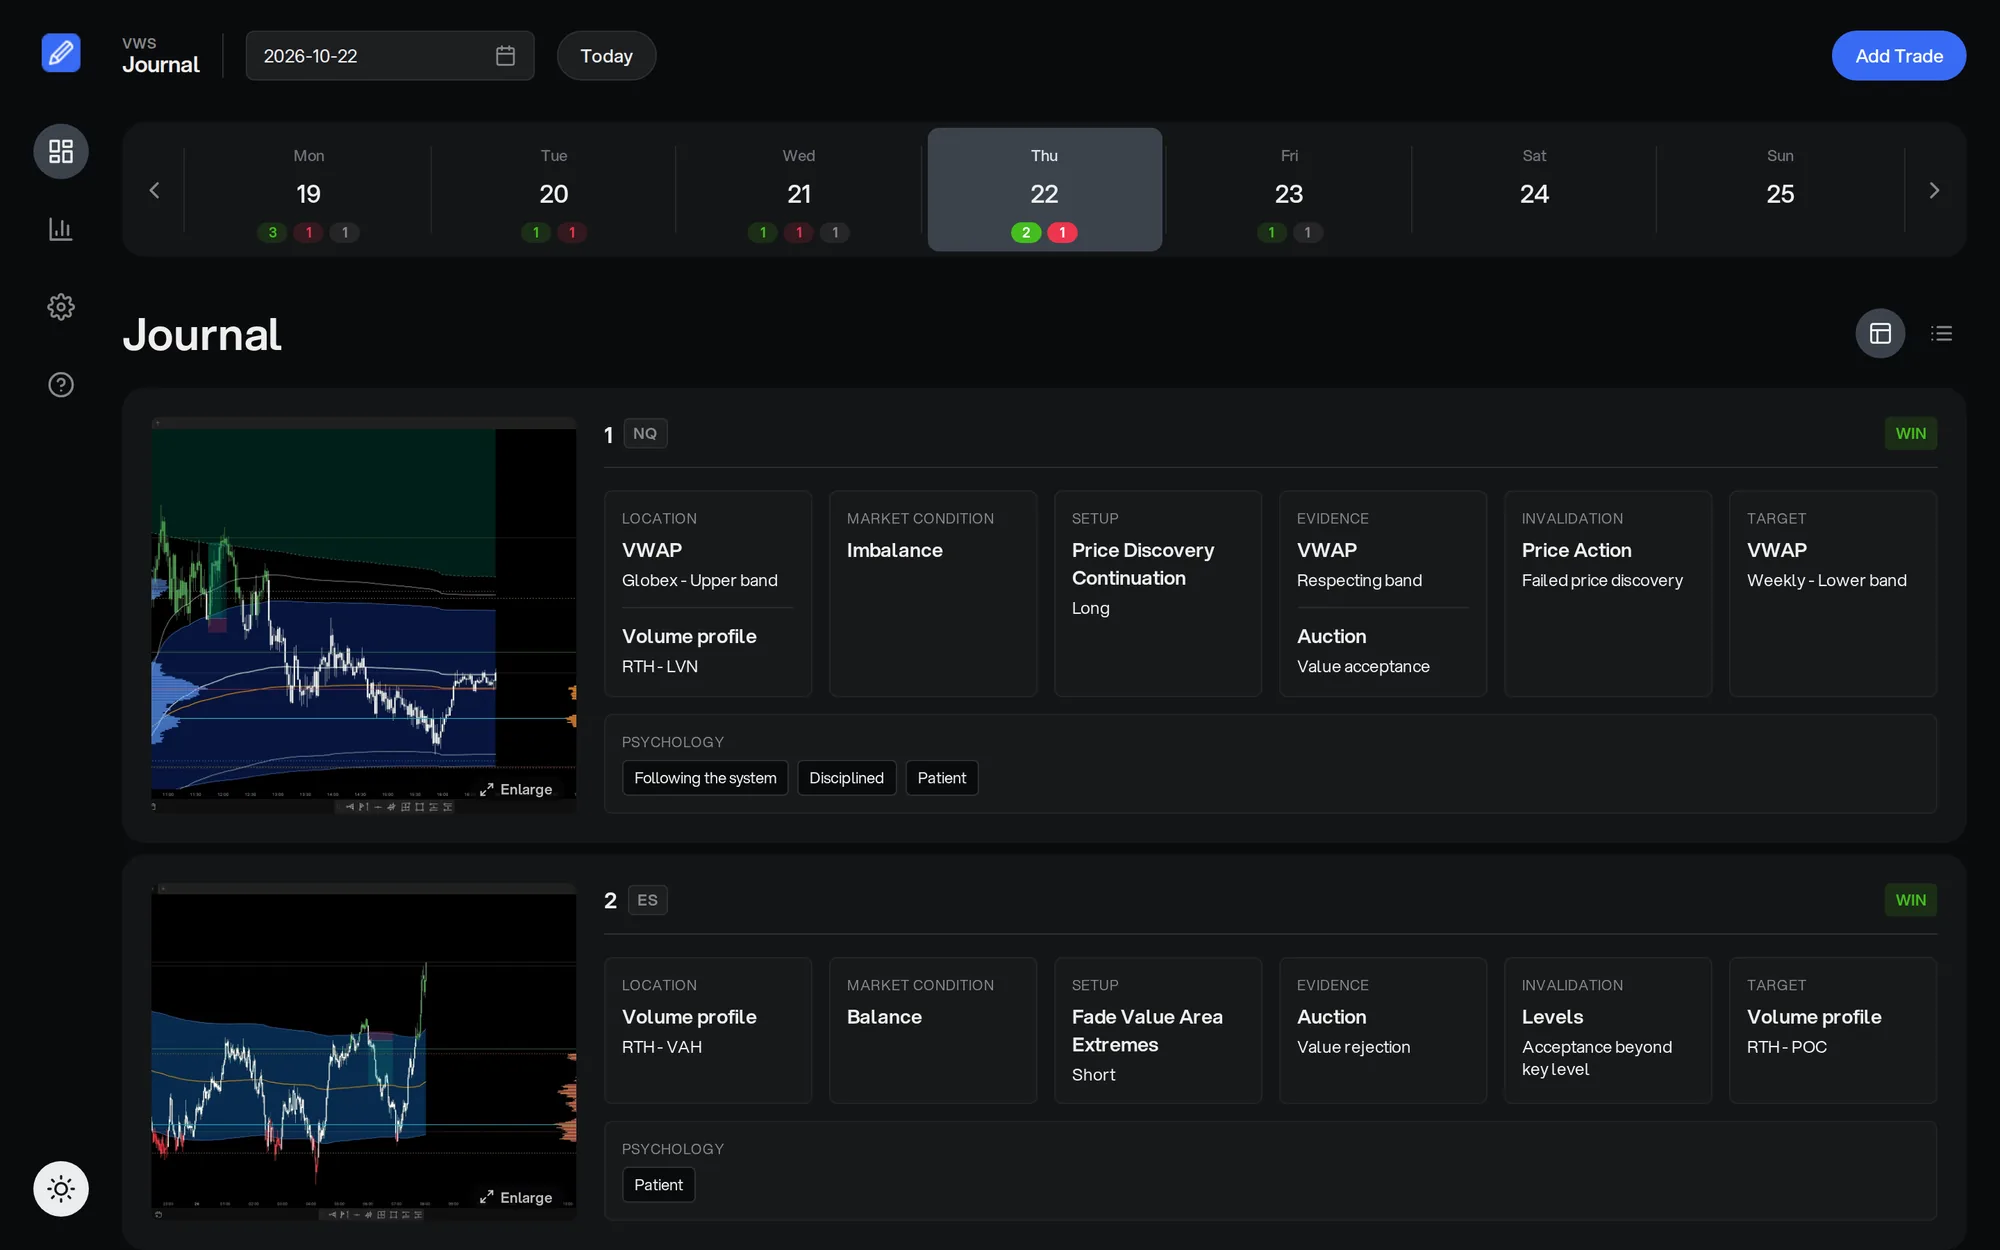
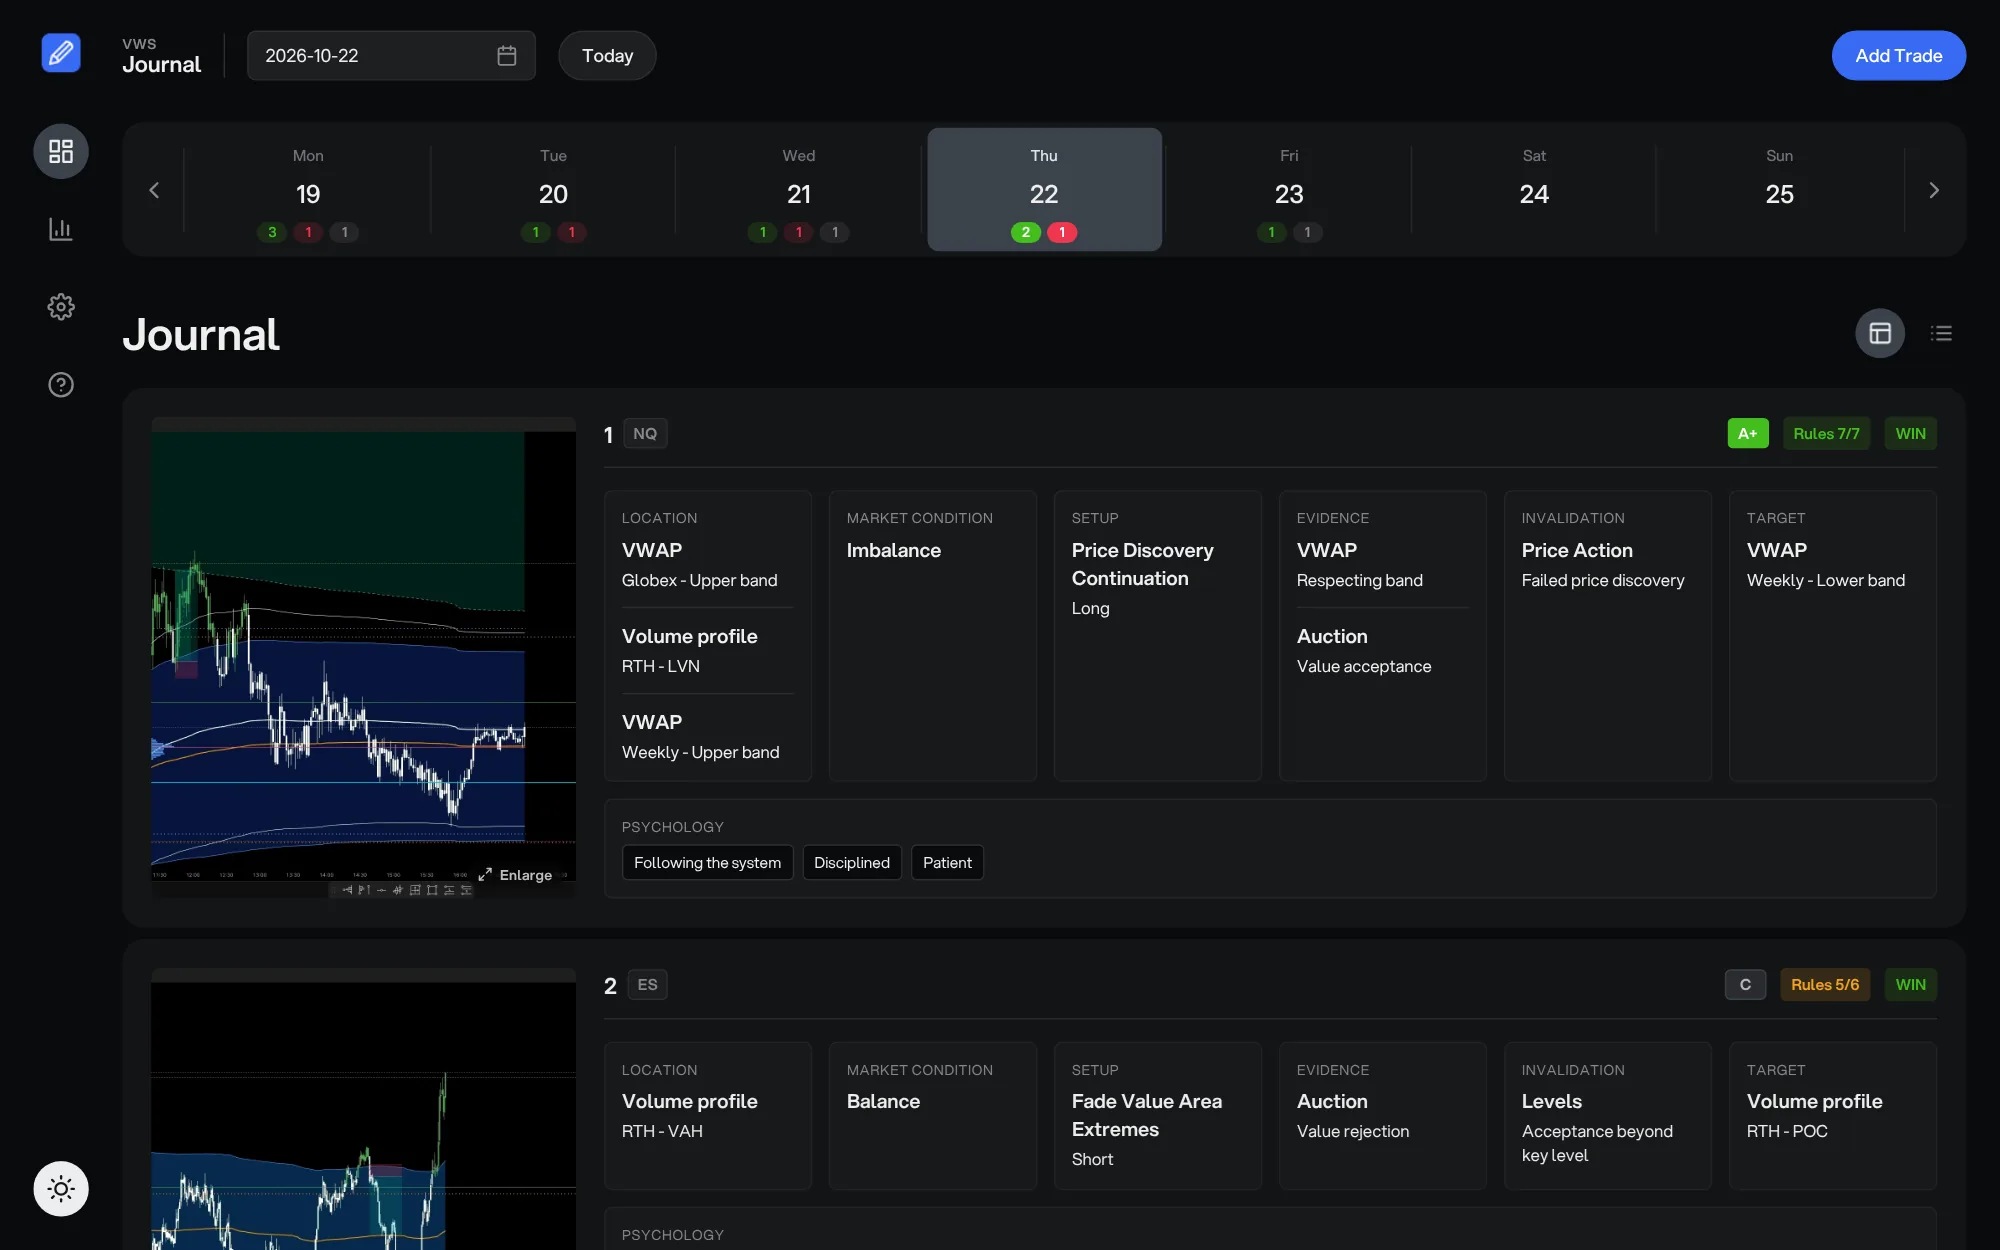
Add files via upload

diff --git a/landing.css b/landing.css
@@ -247,16 +247,10 @@ details[open] > summary .lp-chev { transform: rotate(180deg); }
         mask-image: linear-gradient(180deg, #000 0%, #000 55%, rgba(0, 0, 0, 0.35) 85%, transparent 100%); }
     .lp-context { padding-top: 56px; }
     .lp-bento { grid-template-columns: repeat(2, minmax(0, 1fr)); grid-auto-flow: row dense; gap: 16px; }
-    .lp-span-2, .lp-tile-private { grid-column: 1 / -1; }
+    .lp-span-2 { grid-column: 1 / -1; }
     .lp-flow { flex-direction: column; gap: 10px; }
     .lp-flow-join { display: none; }
     .lp-tile { min-height: 400px; padding: 28px; }
-    .lp-tile-private { min-height: 0; display: grid; grid-template-columns: minmax(0, 1fr) minmax(0, 1fr); column-gap: 32px; row-gap: 10px; }
-    .lp-tile-private { grid-template-rows: auto auto 1fr; }
-    .lp-tile-private .lp-tag { grid-column: 1; grid-row: 1; }
-    .lp-tile-private h3 { grid-column: 1; grid-row: 2; }
-    .lp-tile-private > p { grid-column: 1; grid-row: 3; }
-    .lp-tile-private .lp-files { grid-column: 2; grid-row: 1 / span 3; margin-top: 0; padding-top: 0; align-self: center; }
     .lp-v-chart { height: 320px; margin-right: -40px; }
     .lp-capture-toast { right: 56px; }
     .lp-v-settings { margin-right: -110px; }

diff --git a/index.html b/index.html
@@ -96,7 +96,7 @@
 
             <div class="lp-hero-shot lp-wrap">
                 <div class="lp-hero-frame">
-<img src="landing/dashboard.webp" width="2000" height="1250" alt="The journal dashboard: a weekly calendar with wins and losses per day, and trade cards with chart, location, setup, evidence and psychology" fetchpriority="high">
+<img src="landing/dashboard.webp" width="2000" height="1250" alt="The journal dashboard: a weekly calendar with wins and losses per day, and trade cards with chart, location, setup, evidence, psychology, grade and rules" fetchpriority="high">
                 </div>
             </div>
 
